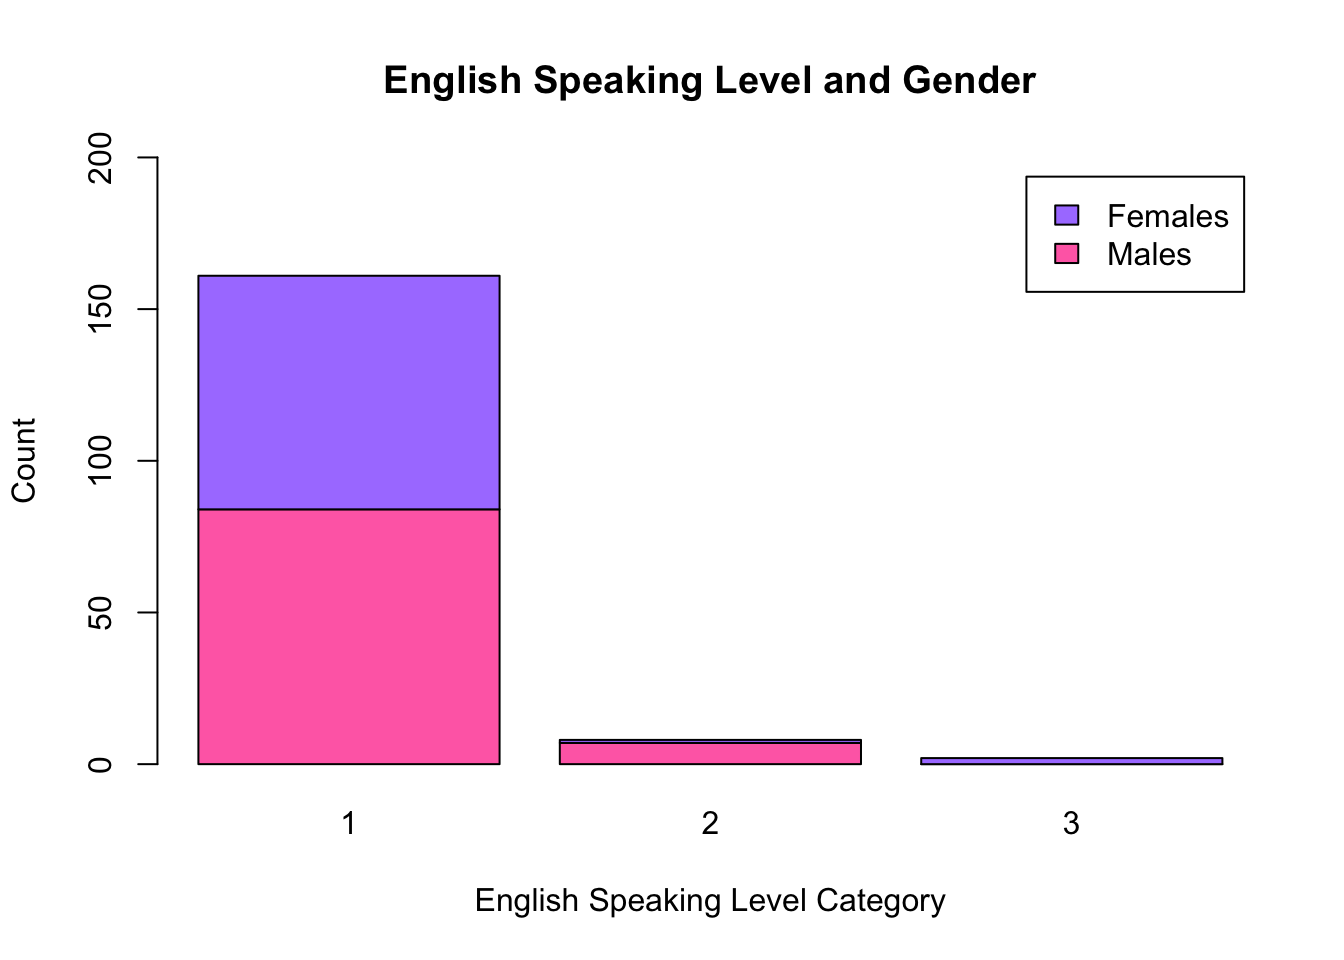
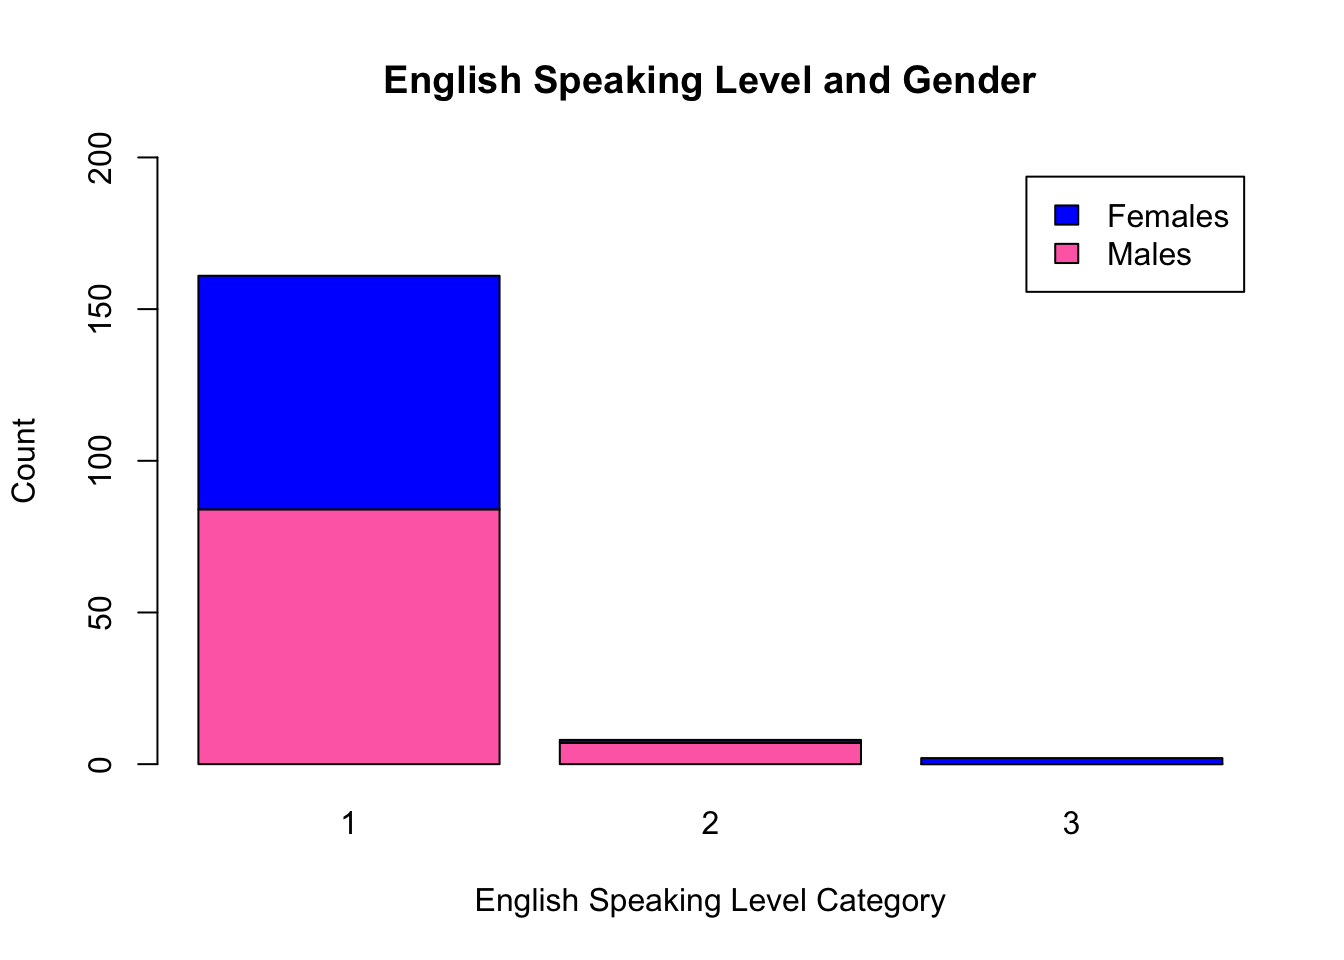
changed plot color

Changed region(s): [[0.125, 0.2812, 0.375, 0.5312], [0.6875, 0.7812, 0.9062, 0.8125], [0.7812, 0.2188, 0.8125, 0.25]]

diff --git a/docs/Assignments.html b/docs/Assignments.html
@@ -633,7 +633,7 @@ barplot &lt;- barplot(table(dat.five$dat.irsex, dat.five$dat.sexatract),
         main=&quot;English Speaking Level and Gender&quot;,
         xlab=&quot;English Speaking Level Category&quot;,
         ylab=&quot;Count&quot;,
-        col=c(&quot;hotpink1&quot;, &quot;mediumpurple1&quot;),
+        col=c(&quot;hotpink1&quot;, &quot;blue&quot;),
         ylim = c(0,200),  legend.text = c(&quot;Males&quot;,&quot;Females&quot;)
 )</code></pre>
 <p><img src="Assignments_files/figure-html/unnamed-chunk-23-1.png" width="672" /> <strong>Looking at the stacked bar plot of English speaking level and gender, it looks like the number of males and females that answered that they spoke English very well was pretty close, will a few more males (exactly 11, according to the table). The plot also confirms that more men responded that they spoke English well than women, and that no men responded that they spoke English not well.</strong></p>
